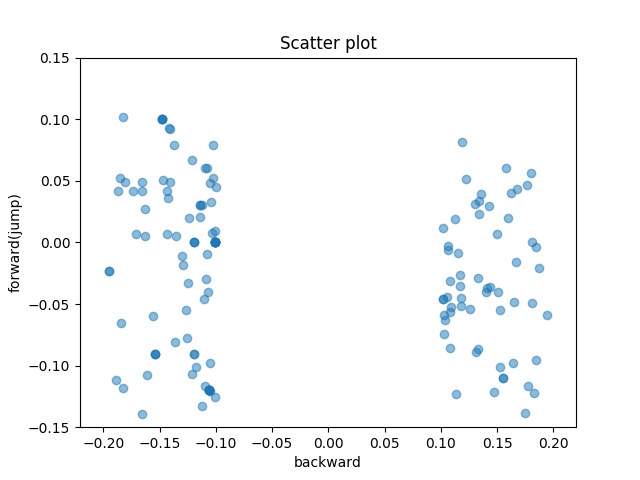
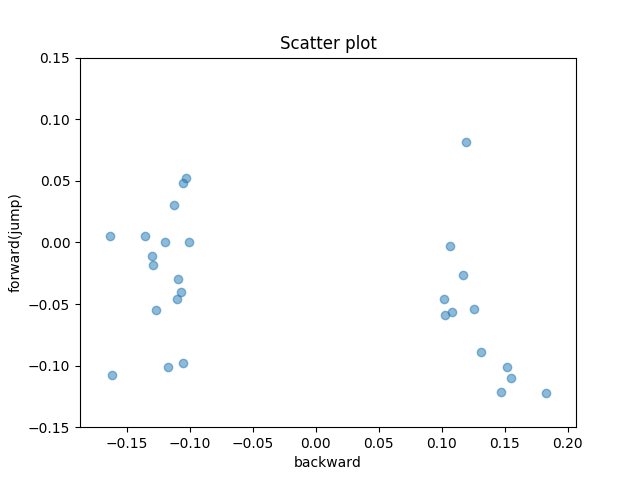
dedupe signal that happens adjacent withint window

diff --git a/sandbox.py b/sandbox.py
@@ -22,14 +22,13 @@ df = df.loc[~df.index.duplicated(keep='first')]
 dff = features.add_features(df, market_mode=market_mode)
 
 param = strategy.Parameters()
-param.time_window_forward_drop_minutes = 15
-param.time_window_forward_jump_minutes = 5
+param.time_window_forward_drop_minutes = 5
+param.time_window_forward_jump_minutes = 20
 param.long_on_jump = False
 param.change_lower_threshold = 0.10
 df_signal = strategy.pick_signal(dff, param)
 
 evaluation.print_evaluation(df_signal, param)
-
 
 image_file_name = 'images/time_window_backward_minutes_{time_window_backward_minutes}_{change_lower_threshold}_drop.png'.format(time_window_backward_minutes=param.time_window_backward_minutes, change_lower_threshold=param.change_lower_threshold)
 plots.scatter.do_plot(

diff --git a/analysis/strategy.py b/analysis/strategy.py
@@ -64,4 +64,10 @@ def pick_signal(dff, parameter):
     # dff = dff[dff[feature_backward] < -0.20]
     # dff = dff[(dff[feature_backward] > 0.10) | (dff[feature_backward] < -0.10)]
 
-    return df_signal
+    df_signal_by_symbol = df_signal.reset_index().set_index('symbol').sort_index(by=['symbol', 'datetime'])
+    df_signal_by_symbol['datetime'] = df_signal_by_symbol['datetime'].astype('datetime64[ns]')
+    df_signal_by_symbol = df_signal_by_symbol[
+        df_signal_by_symbol.datetime.diff().fillna(np.timedelta64(100, 'm')) > np.timedelta64(parameter.time_window_backward_minutes, 'm')]
+    df_signal_deduped = df_signal_by_symbol.reset_index().set_index(['datetime', 'symbol'])
+
+    return df_signal_deduped

diff --git a/plots/scatter.py b/plots/scatter.py
@@ -25,3 +25,6 @@ def plot(df, daily_change_lower_limit):
     print(df_daily_summary[df_daily_summary.signal_length >= 9].tail(20))
 
     do_plot(df_daily_summary.signal_length, df_daily_summary.daily_profit, xlabel='signal_length', ylabel='daily_profit')
+
+def plots(df, param):
+    pass

diff --git a/analysis/evaluation.py b/analysis/evaluation.py
@@ -44,4 +44,3 @@ def print_evaluation(df_signal, param):
     print('')
     print('outlying riser (>0.3)')
     print(df_signal[df_signal[feature_forward_jump] > 0.3][['close_b_10', 'close_b_5', 'close', 'close_f_5', 'close_f_10']])
-
